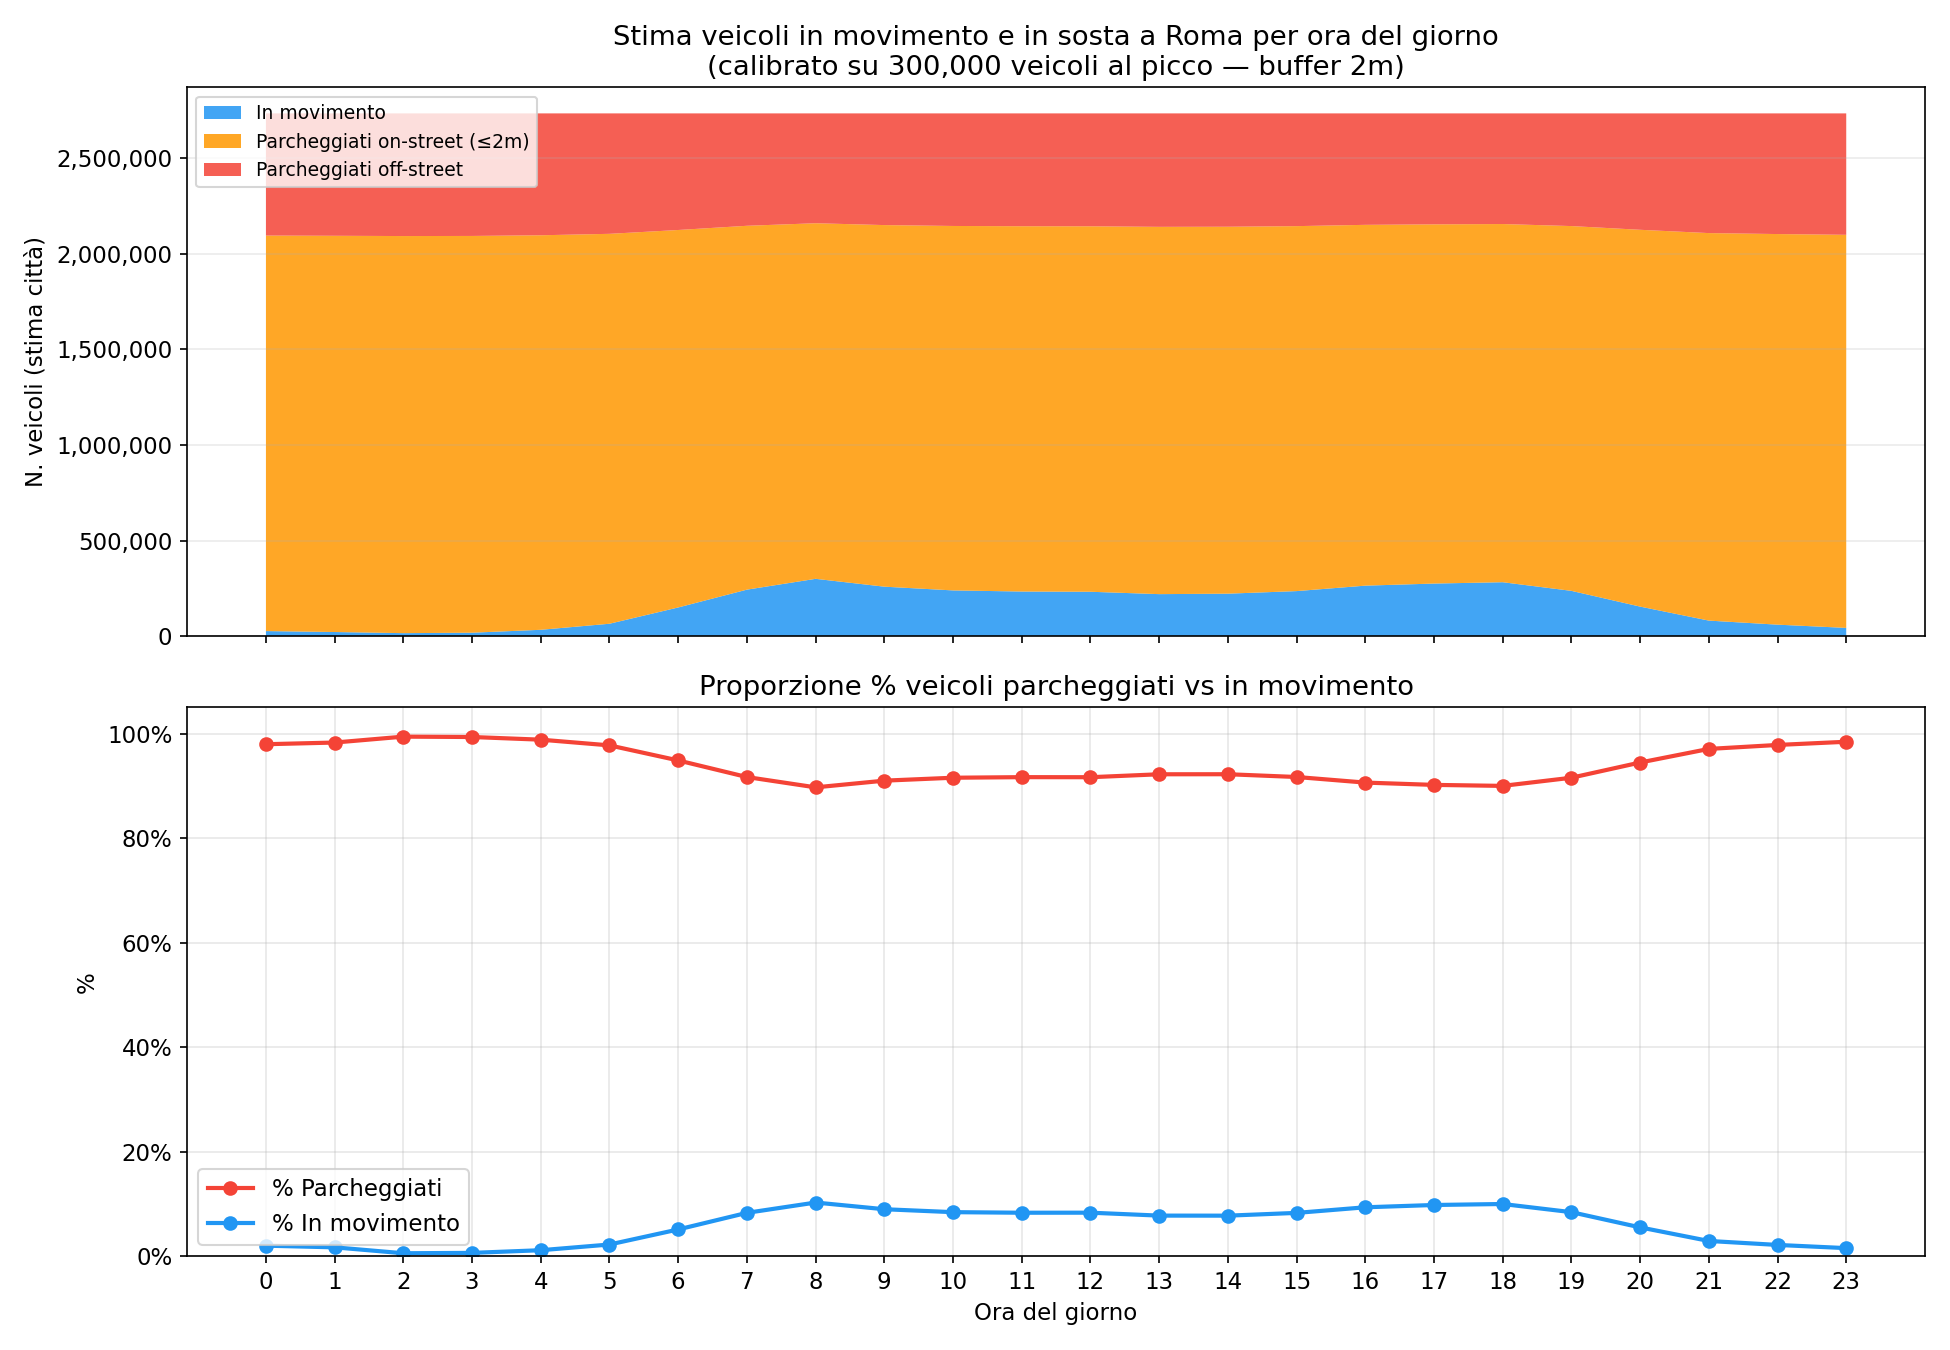
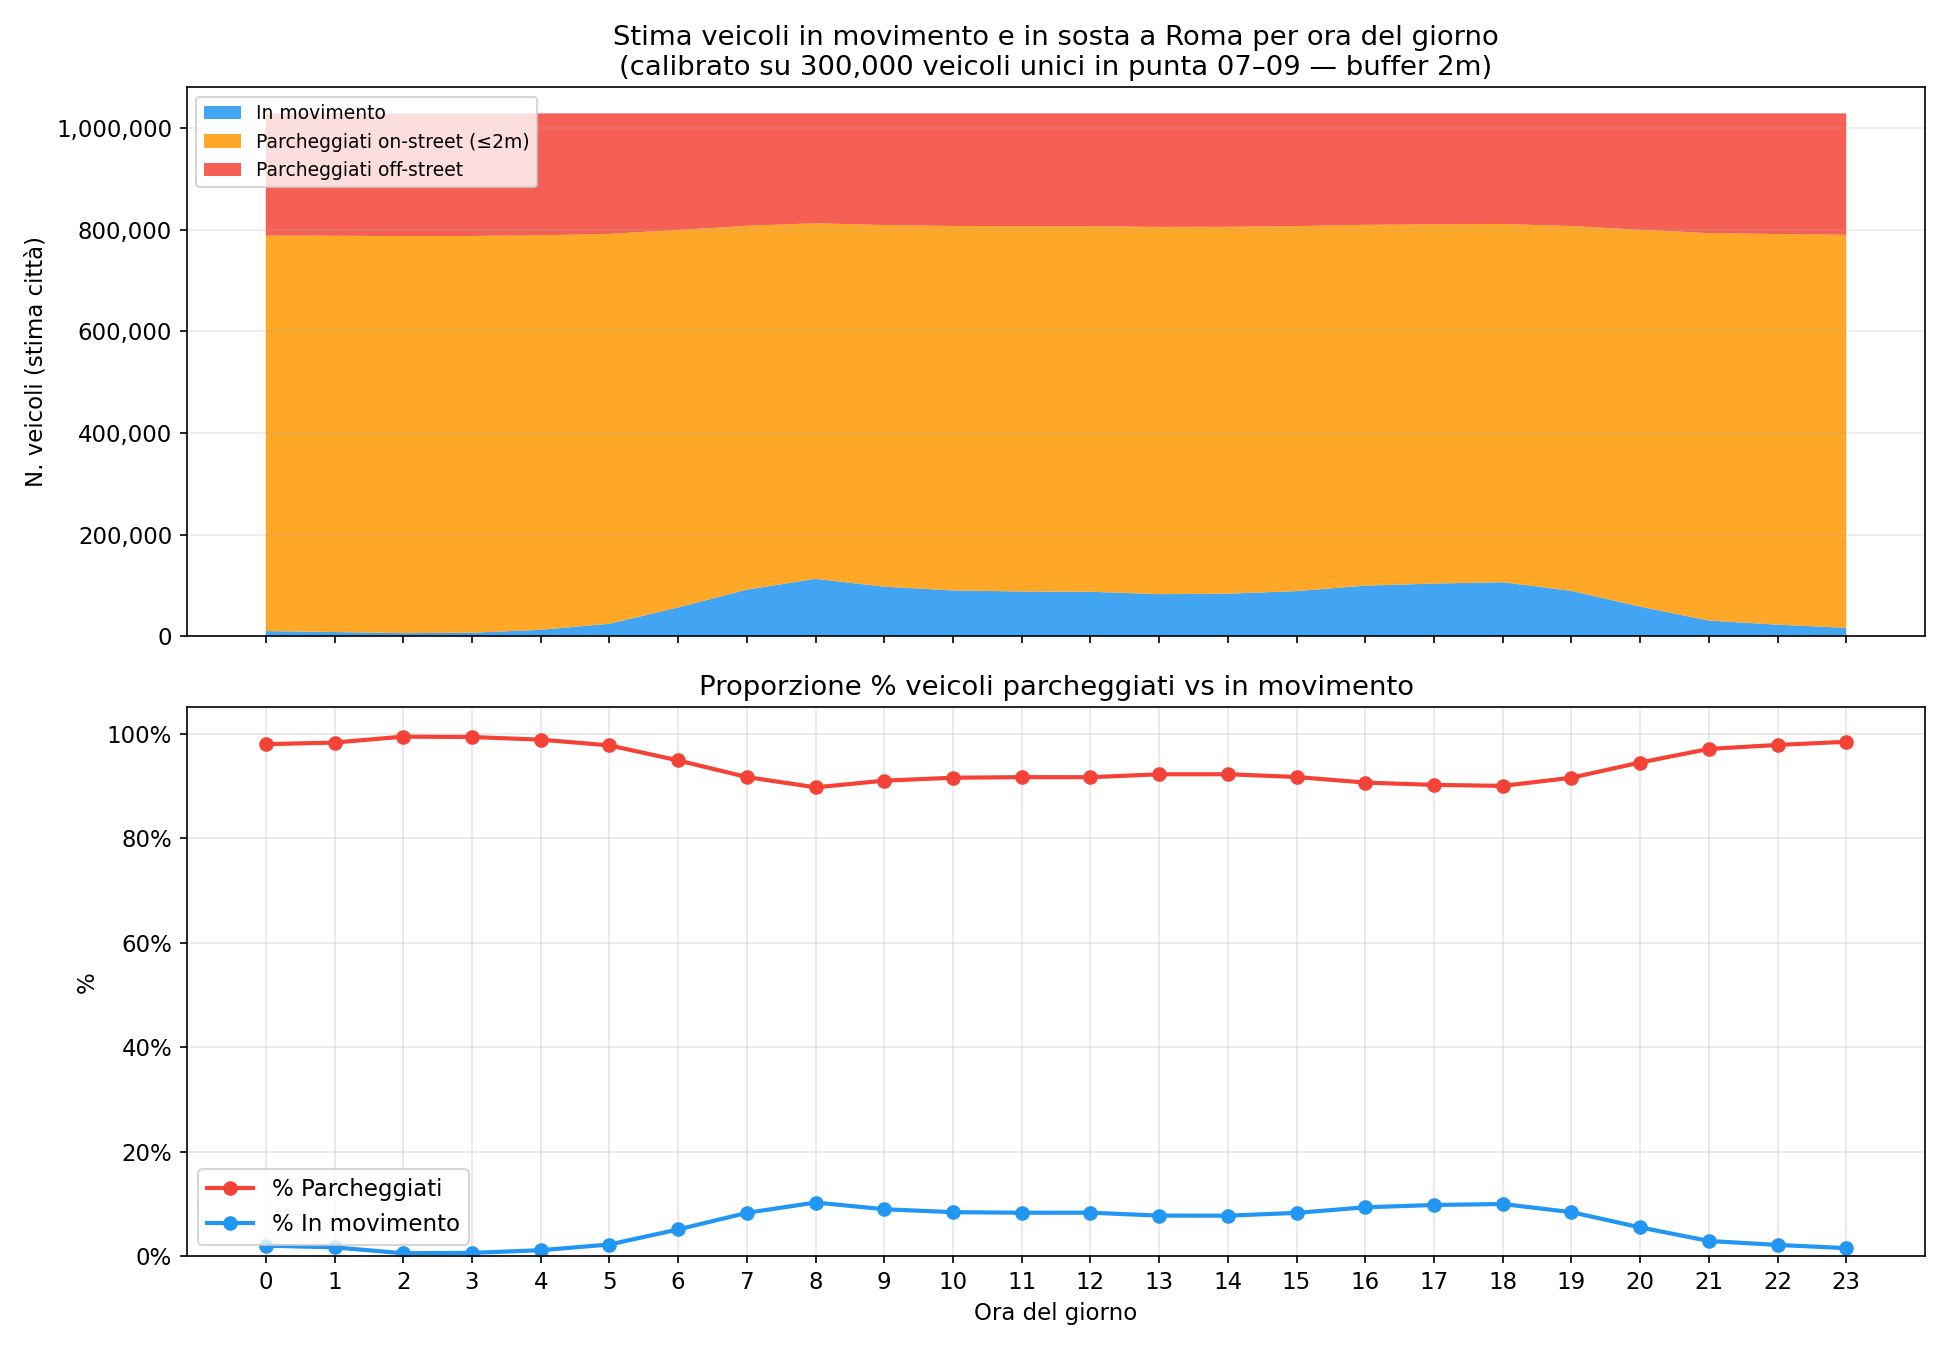
Correggi calibrazione STEP 9: veicoli unici in fascia punta 07-09
Sostituisce il conteggio istantaneo (veicoli al picco alle 8:30) con
il numero di veicoli unici che effettuano almeno uno spostamento nella
finestra 07:00-09:00, coerente con la definizione del riferimento
esterno (300.000 veicoli in punta mattutina, non simultanei).

Fattore di espansione rivisto: 217× (era 577×)
Flotta giornaliera attiva stimata: ~1.03M veicoli (era 2.73M)
Veicoli parcheggiati in media: ~968.000 (era 2.57M)
Superficie carrabile occupata (2m): ~6.8% (era 18.2%)

https://claude.ai/code/session_01VTnSyJonM3uZJCXviEdtqi

diff --git a/analyze_parking.py b/analyze_parking.py
@@ -628,23 +628,30 @@ print(f"\n  % veicoli parcheggiati — media: {avg_pct_parked_all:.1f}%  "
 print("\nSTEP 9: Stime a scala di città")
 
 # --- Parametro di calibrazione ---
-# Veicoli in movimento nell'ora di punta stimati da fonti esterne (es. conteggi traffico Roma)
-# Modifica questo valore se disponi di un riferimento aggiornato.
-REF_PEAK_VEHICLES = 300_000   # veicoli in movimento al picco (08:30)
+# Veicoli unici che effettuano almeno uno spostamento nella fascia di punta mattutina.
+# Modifica questi valori se disponi di un riferimento aggiornato.
+REF_PEAK_VEHICLES  = 300_000   # veicoli unici con almeno un viaggio 07:00–09:00
+PEAK_WINDOW_START  = 7         # ora inizio fascia (inclusa)
+PEAK_WINDOW_END    = 9         # ora fine fascia (esclusa)
 
-# Veicoli in movimento al picco nel campione FCD
-peak_hour = int(df_hourly_usage.loc[df_hourly_usage["avg_pct_moving"].idxmax(), "hour"])
-n_moving_peak_sample = float(df_hourly_usage.loc[
-    df_hourly_usage["hour"] == peak_hour, "avg_n_moving"
-].iloc[0])
+# Stessa metrica nel campione FCD: media giornaliera di veicoli unici
+# con almeno una partenza nella finestra 07:00–09:00
+peak_trips_sample = t_all[
+    (t_all["dep_time"].dt.hour >= PEAK_WINDOW_START) &
+    (t_all["dep_time"].dt.hour <  PEAK_WINDOW_END)
+]
+avg_unique_peak_sample = peak_trips_sample.groupby("date")["user_id"].nunique().mean()
 
-SCALE = REF_PEAK_VEHICLES / n_moving_peak_sample
+SCALE = REF_PEAK_VEHICLES / avg_unique_peak_sample
 implied_daily_fleet = df_hourly_usage["avg_n_active"].iloc[0] * SCALE
 
-print(f"  Riferimento esterno picco ({peak_hour}:30): {REF_PEAK_VEHICLES:,} veicoli")
-print(f"  Campione FCD al picco:                    {n_moving_peak_sample:,.0f} veicoli")
-print(f"  Fattore di espansione:                    {SCALE:.1f}×")
-print(f"  Flotta giornaliera attiva stimata:        {implied_daily_fleet:,.0f} veicoli")
+peak_hour = int(df_hourly_usage.loc[df_hourly_usage["avg_pct_moving"].idxmax(), "hour"])
+
+print(f"  Riferimento: veicoli unici con partenza {PEAK_WINDOW_START}:00–{PEAK_WINDOW_END}:00: "
+      f"{REF_PEAK_VEHICLES:,}")
+print(f"  Campione FCD (media/giorno stessa finestra):  {avg_unique_peak_sample:,.0f} veicoli")
+print(f"  Fattore di espansione:                        {SCALE:.1f}×")
+print(f"  Flotta giornaliera attiva stimata:            {implied_daily_fleet:,.0f} veicoli")
 
 # --- Espansione del profilo orario ---
 df_city = df_hourly_usage.copy()
@@ -732,7 +739,7 @@ ax1.stackplot(df_city["hour"],
               colors=["#2196F3", "#FF9800", "#F44336"], alpha=0.85)
 ax1.set_ylabel("N. veicoli (stima città)")
 ax1.set_title(f"Stima veicoli in movimento e in sosta a Roma per ora del giorno\n"
-              f"(calibrato su {REF_PEAK_VEHICLES:,} veicoli al picco — buffer 2m)")
+              f"(calibrato su {REF_PEAK_VEHICLES:,} veicoli unici in punta 07–09 — buffer 2m)")
 ax1.yaxis.set_major_formatter(mticker.FuncFormatter(lambda x, _: f"{int(x):,}"))
 ax1.legend(loc="upper left", fontsize=9)
 ax1.grid(True, alpha=0.25, axis="y")
@@ -779,7 +786,7 @@ ax.set_xticks(x)
 ax.set_xticklabels(fasce)
 ax.set_ylabel("N. veicoli stimati")
 ax.set_title(f"Distribuzione veicoli a Roma per fascia oraria\n"
-             f"(stima calibrata su {REF_PEAK_VEHICLES:,} veicoli al picco, buffer 2m)")
+             f"(calibrato su {REF_PEAK_VEHICLES:,} veicoli unici in punta 07–09, buffer 2m)")
 ax.yaxis.set_major_formatter(mticker.FuncFormatter(lambda x, _: f"{int(x):,}"))
 ax.legend(fontsize=9)
 ax.grid(True, alpha=0.3, axis="y")
